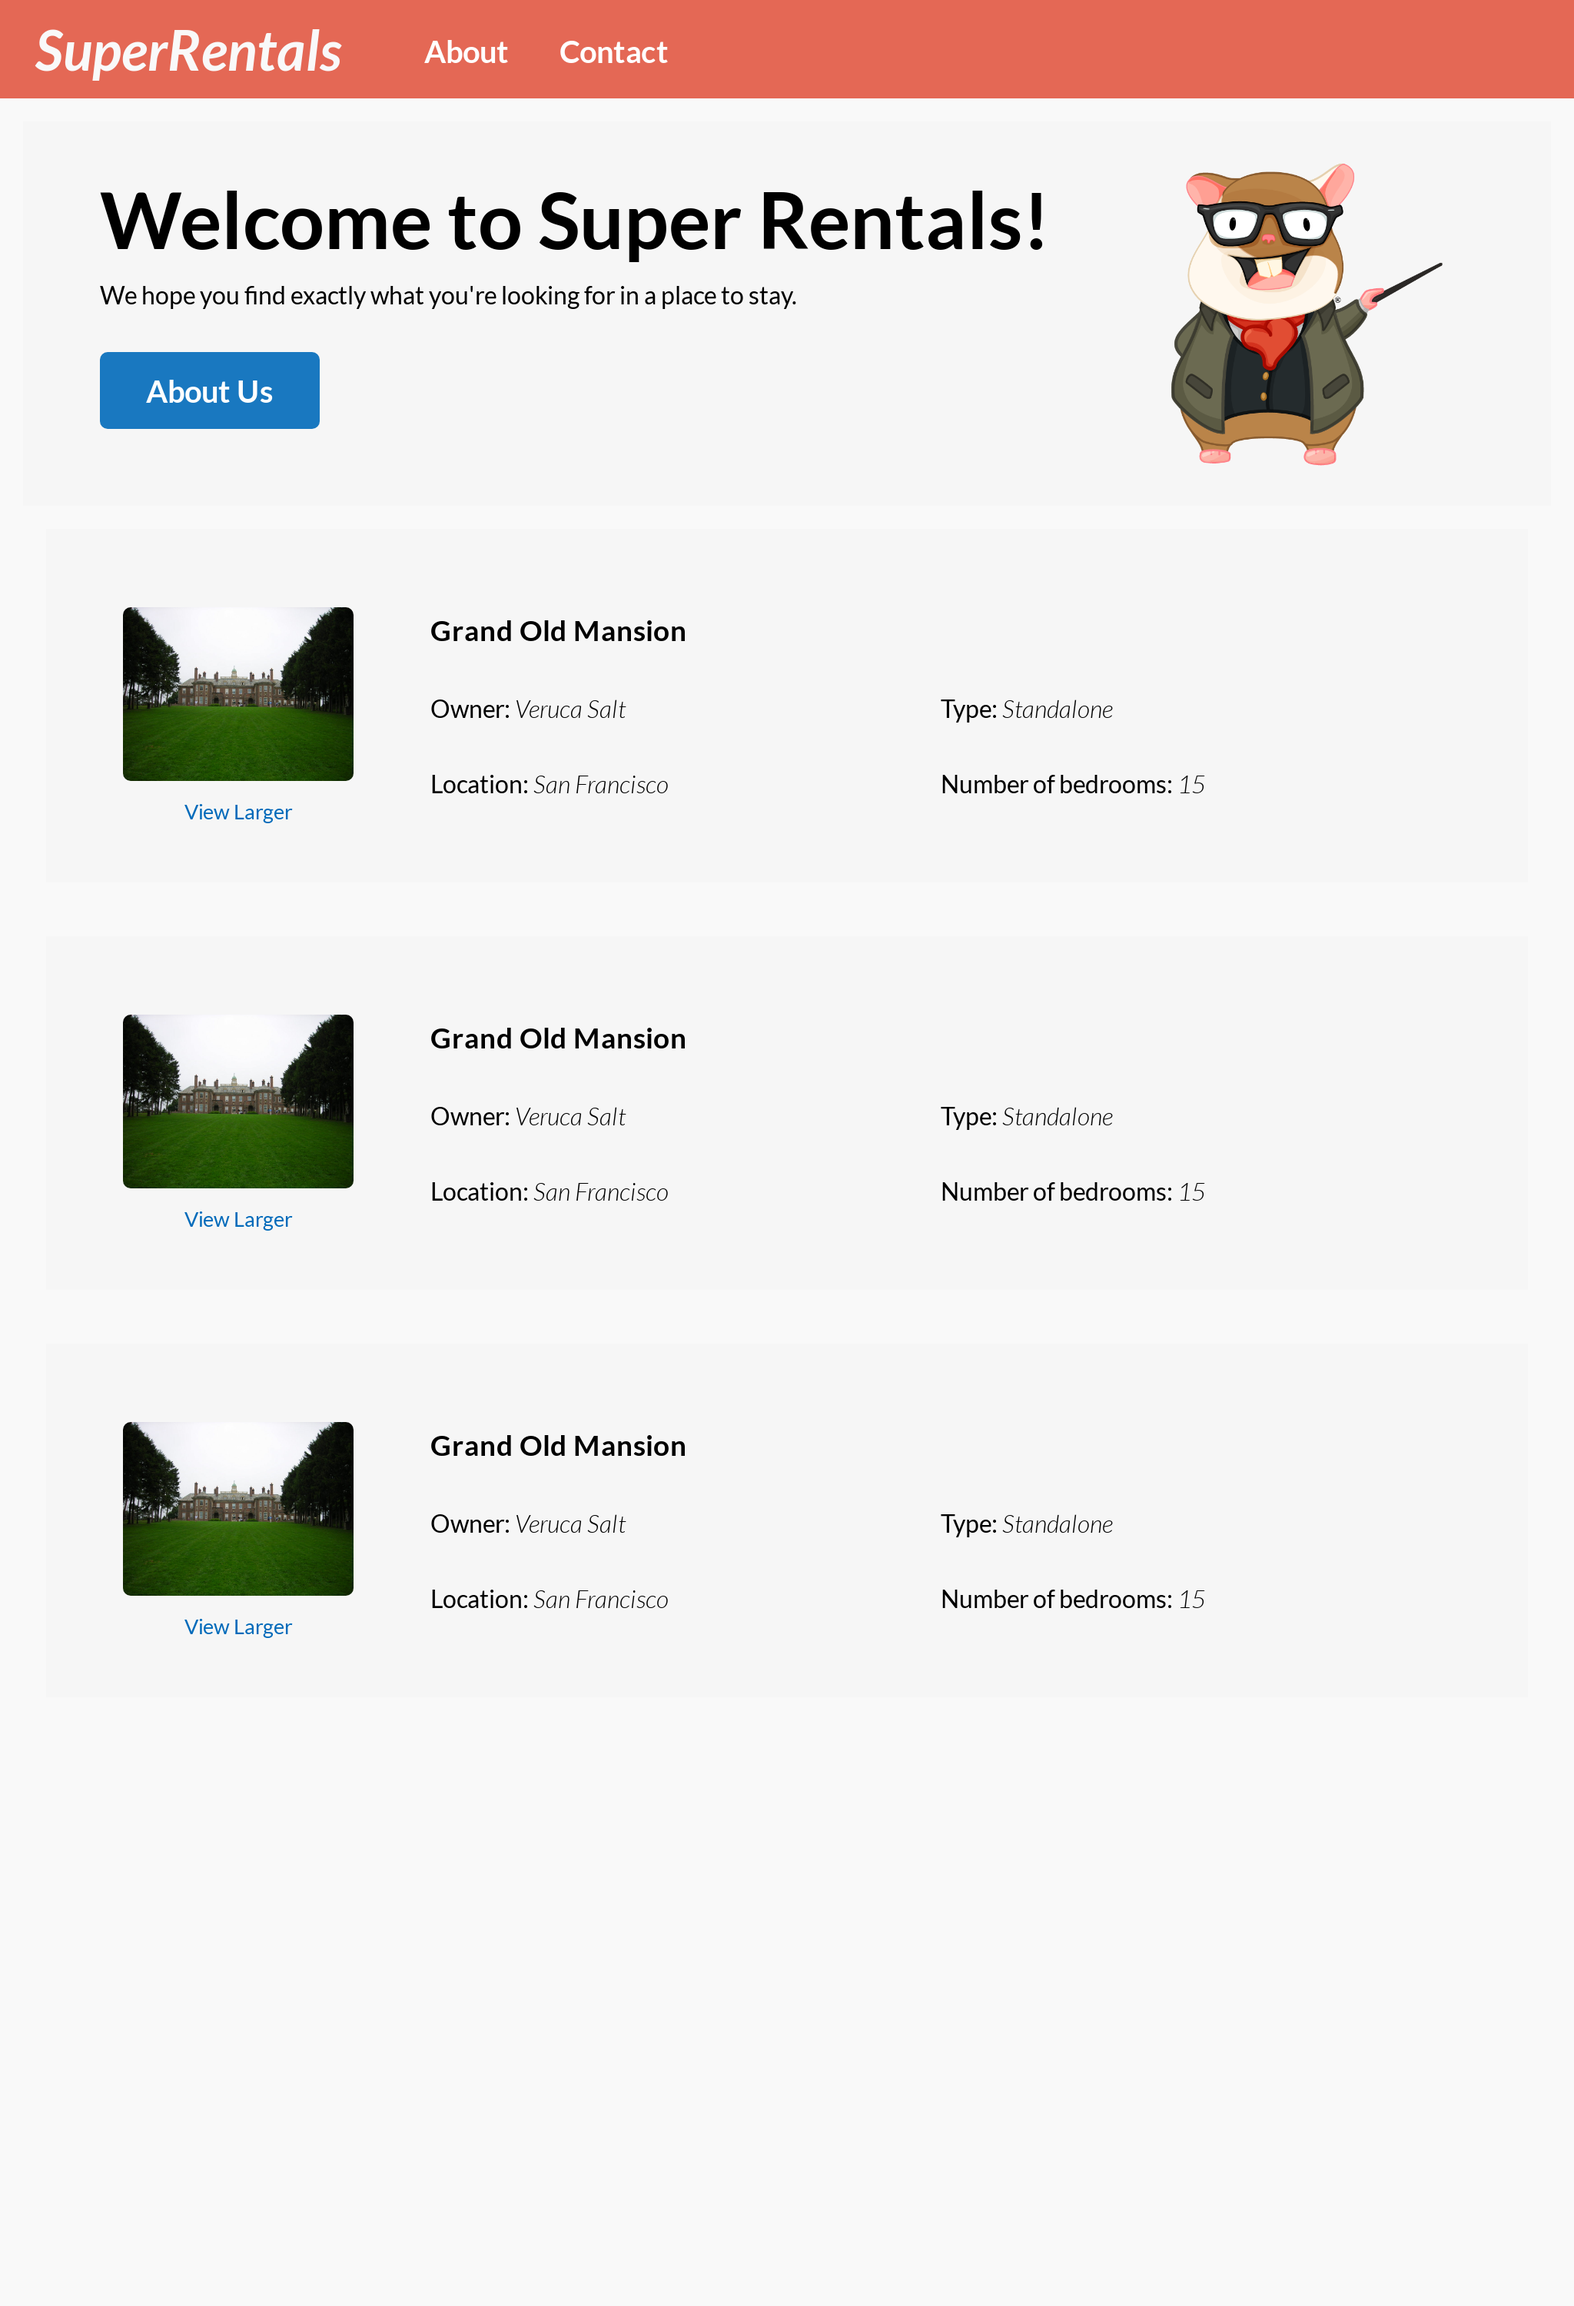
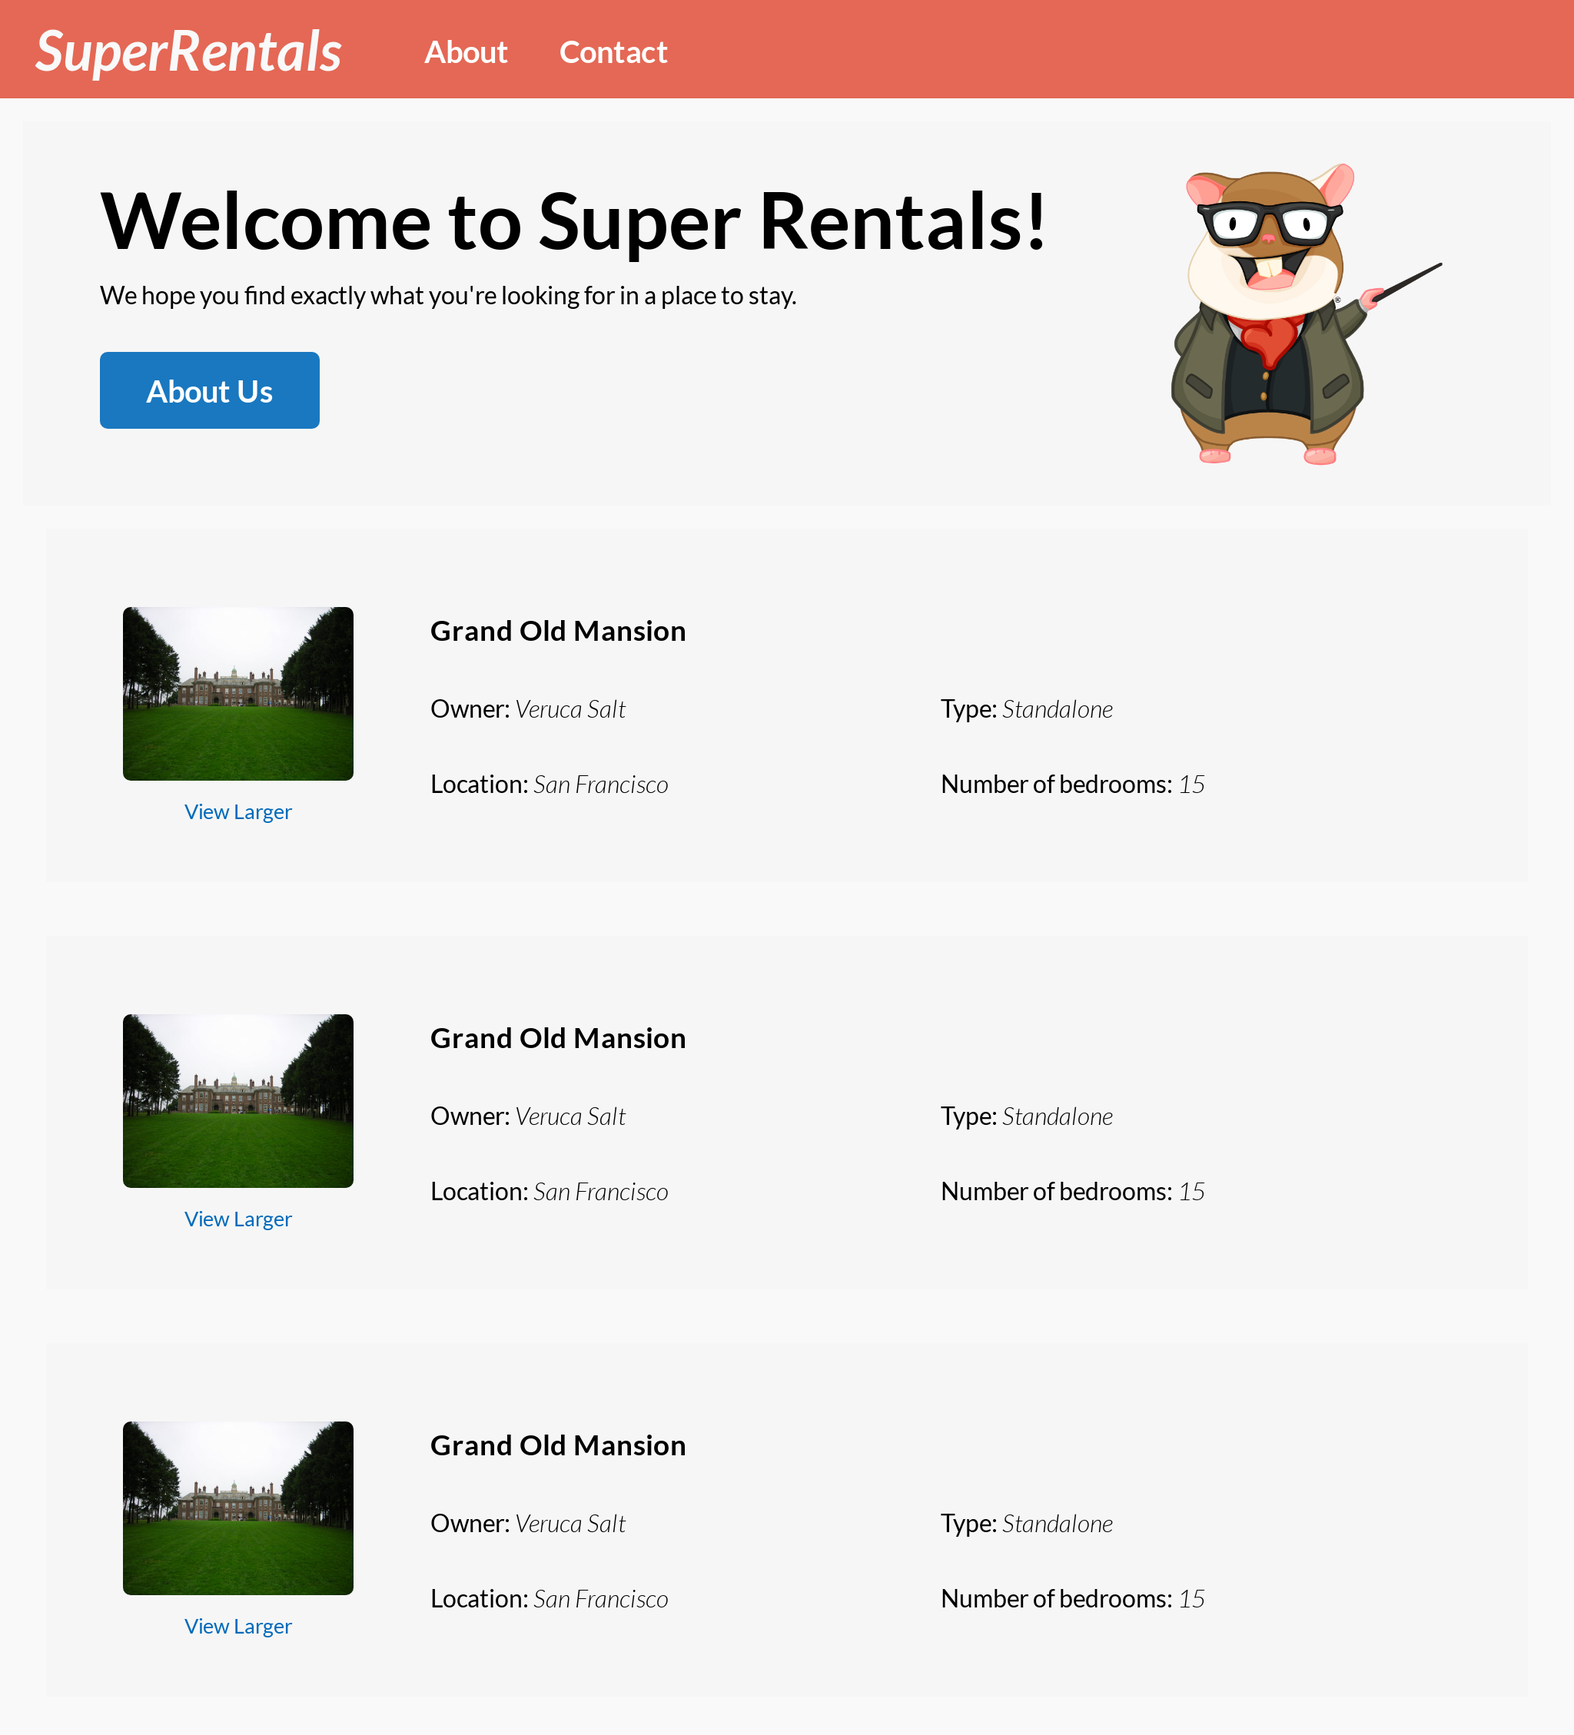
Merge ember-learn/super-rentals-tutorial#78
Fix bug in screenshot DSL parsing

---

Commit:  ember-learn/super-rentals-tutorial@28ebcc38de56c77d50fcf0c3bab011dc0deb575a
Script:  https://github.com/ember-learn/super-rentals-tutorial/blob/28ebcc38de56c77d50fcf0c3bab011dc0deb575a/scripts/deploy.sh
Logs:    https://travis-ci.org/ember-learn/super-rentals-tutorial/jobs/592719662

diff --git a/guides/release/tutorial/06-interactive-components.md b/guides/release/tutorial/06-interactive-components.md
@@ -4,7 +4,7 @@ In this chapter, you will add interactivity to the page, allowing the user to cl
 
 <!-- TODO: make this a gif instead -->
 
-<img src="/screenshots/06-interactive-components/rental-image-default@2x.png" alt="The Super Rentals app by the end of the chapter (default image size)" width="1024" height="1500">
+<img src="/screenshots/06-interactive-components/rental-image-default@2x.png" alt="The Super Rentals app by the end of the chapter (default image size)" width="1024" height="1129">
 
 <img src="/screenshots/06-interactive-components/rental-image-large@2x.png" alt="The Super Rentals app by the end of the chapter (large image size)" width="1024" height="1500">
 
@@ -198,7 +198,7 @@ With that, we have created our first _interactive_ component. Go ahead and try i
 
 <!-- TODO: make this a gif instead -->
 
-<img src="/screenshots/06-interactive-components/rental-image-default@2x.png" alt="<Rental::Image> (default size)" width="1024" height="1500">
+<img src="/screenshots/06-interactive-components/rental-image-default@2x.png" alt="<Rental::Image> (default size)" width="1024" height="1129">
 
 <img src="/screenshots/06-interactive-components/rental-image-large@2x.png" alt="<Rental::Image> (large size)" width="1024" height="1500">
 
